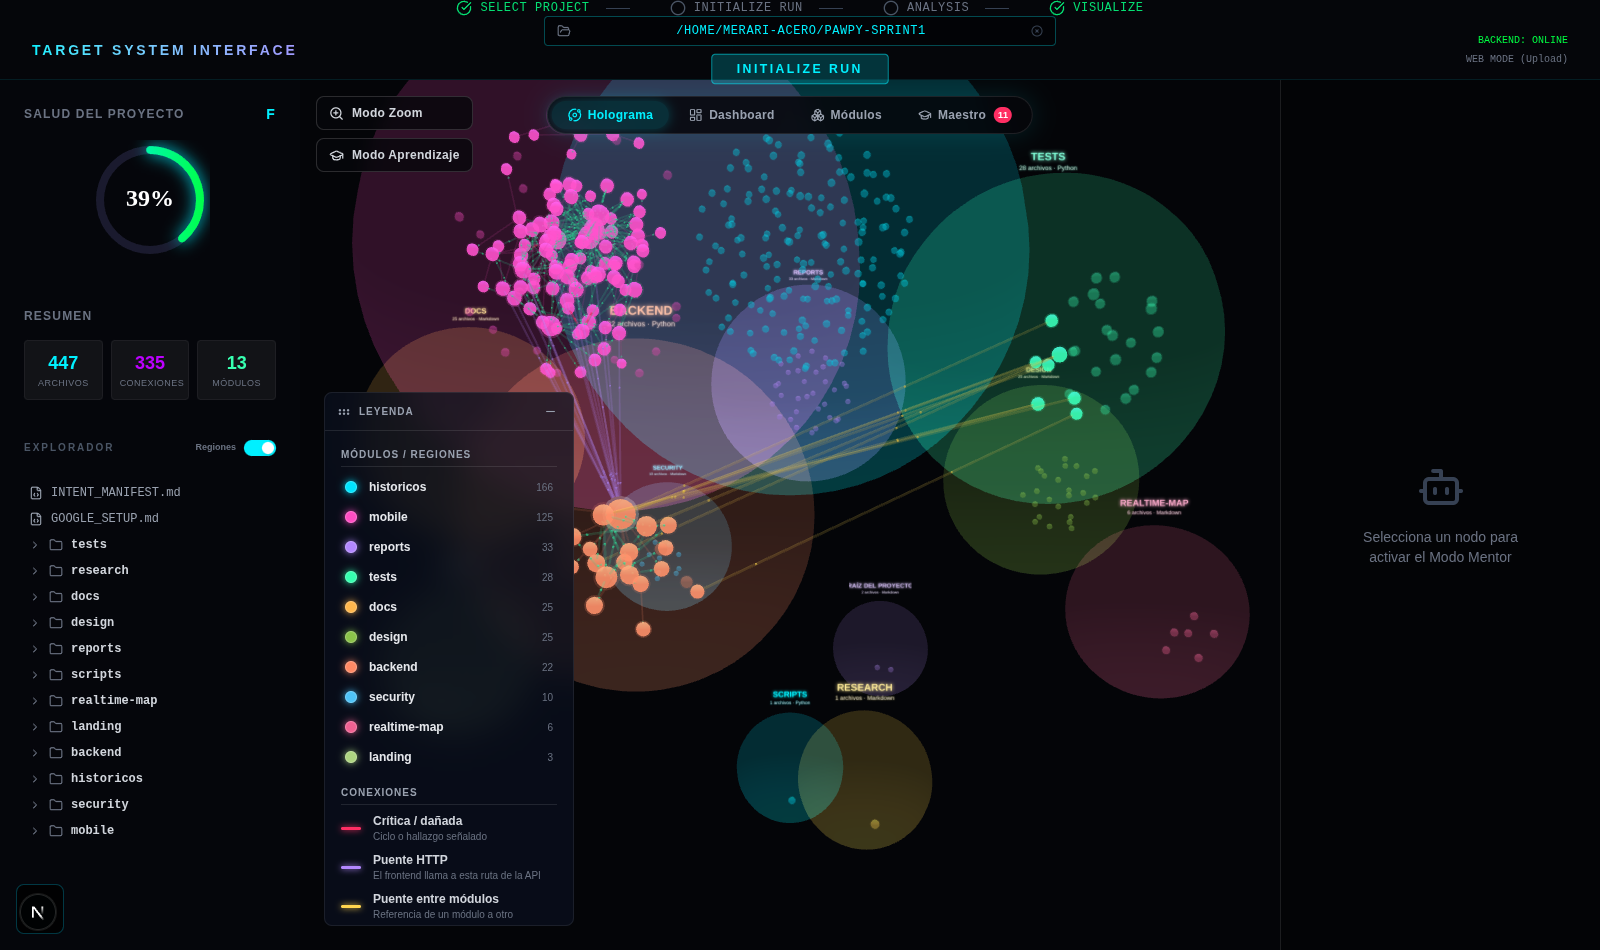
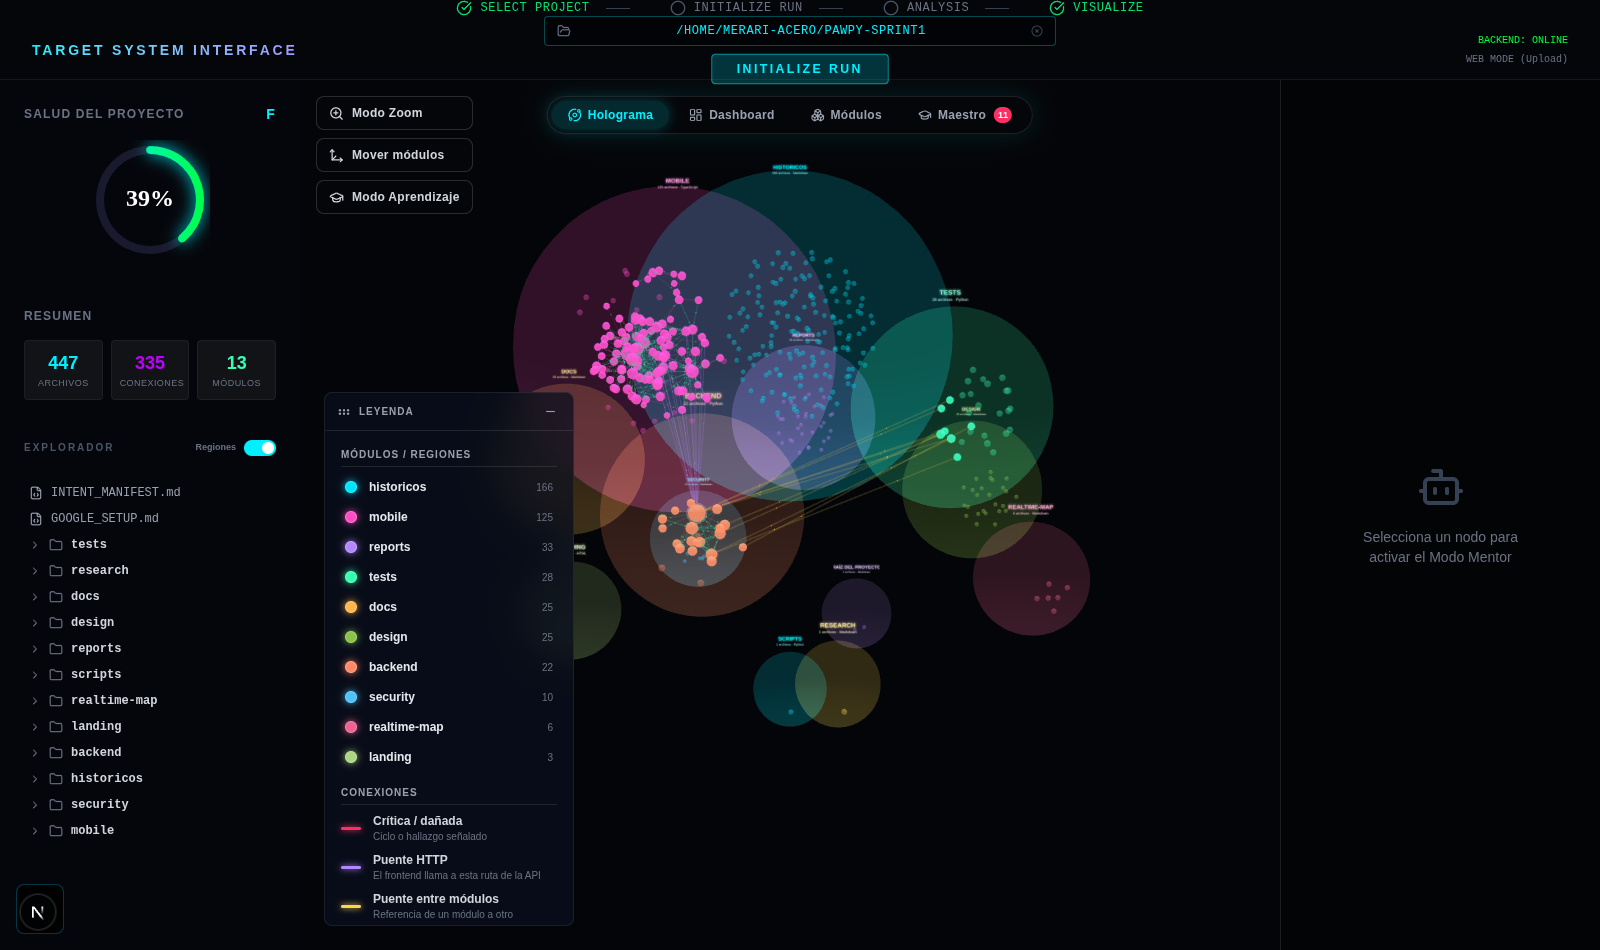
docs: refresh screenshots + modes gallery; fix lingering node tooltip
- All screenshots retaken on current UI: hero with the 3 mode buttons and
  full legend, move mode (nebula dragged, full map), zoom mode (isolated
  48-file chain), learning tour, mentor with AI-prompt button and live
  secret redaction visible
- README EN/ES: new 'Modes in action' gallery, Mentor section, Docker note
  now points to the browser-upload option; AGENTS.md picker description
- fix(ui): node tooltip is hover-only — it used to stay pinned on screen
  over overlay views after selecting a node (selection details already
  live in the right sidebar)

Changed region(s): [[0.2188, 0.0611, 0.7812, 0.9158]]

diff --git a/frontend/src/components/GraphViz.tsx b/frontend/src/components/GraphViz.tsx
@@ -756,9 +756,10 @@ export default function GraphViz({ data, onNodeClick, performanceMode, onStatsUp
 
     if (typeof window === 'undefined') return null;
 
-    const activeNode = selectedNodeId
-        ? data?.nodes.find((n) => n.id === selectedNodeId)
-        : hoveredNode;
+    // Tooltip follows the cursor for HOVERED nodes only; a selected node's
+    // details live in the right sidebar (a pinned tooltip lingered over
+    // overlay views otherwise).
+    const activeNode = hoveredNode;
 
     const moduleStats = modules.map((m) => ({ path: m.name, count: m.file_count, color: m.color, id: m.id }));
 
@@ -830,9 +831,7 @@ export default function GraphViz({ data, onNodeClick, performanceMode, onStatsUp
 
             <div
                 className="absolute inset-0 pointer-events-none"
-                onMouseMove={(e) => {
-                    if (!selectedNodeId) setCursorPos({ x: e.clientX, y: e.clientY });
-                }}
+                onMouseMove={(e) => setCursorPos({ x: e.clientX, y: e.clientY })}
             />
 
             {highlightInsight && (

diff --git a/README.md b/README.md
@@ -75,7 +75,7 @@ npm run dev
 docker-compose up --build
 # frontend: http://localhost:3000 · backend: http://localhost:8001
 ```
-Note: with Docker, the backend can only browse paths mounted into the container (the repo itself is mounted at `/project`). For analyzing arbitrary local folders, prefer the native quick start.
+Note: with Docker, the backend can only browse paths mounted into the container (the repo itself is mounted at `/project`). To analyze any other local folder, use the **«Subir del navegador»** button in the file picker — it reads the folder in your browser (filtered: no `node_modules`, code files only, capped) and sends it as a manifest.
 </details>
 
 ## 🗺 The four views
@@ -104,6 +104,20 @@ Note: with Docker, the backend can only browse paths mounted into the container 
 | 🎨 Module color | **Internal** — a normal import inside its own module |
 
 Hover any line for a tooltip: `source → target · category`. The legend panel is draggable and collapsible.
+
+## 🎮 Modes in action
+
+| ✋ **Move mode** — grab a whole nebula and rearrange the map | 🔍 **Zoom mode** — isolate a file + its 2-level chain |
+|---|---|
+| ![Move mode](docs/screenshots/move_mode.png) | ![Zoom mode](docs/screenshots/zoom_mode.png) |
+
+| 🚶 **Learning tour** — the camera flies module by module | 🧩 **Bridge inspector** — exact file-to-file crossings |
+|---|---|
+| ![Learning tour](docs/screenshots/learning_tour.png) | ![Bridge inspector](docs/screenshots/bridge_inspector.png) |
+
+## 🎓 The Mentor
+
+Findings are not just flags — each one teaches. Note the evidence below: detected **secrets are redacted** (`••••••••`) before they ever leave the analyzer, so they never reach the API, saved graphs, your screen or copied prompts.
 
 ![Mentor mode](docs/screenshots/mentor_mode.png)
 

diff --git a/README.es.md b/README.es.md
@@ -74,7 +74,7 @@ npm run dev
 docker-compose up --build
 # frontend: http://localhost:3000 · backend: http://localhost:8001
 ```
-Nota: con Docker el backend solo puede navegar rutas montadas en el contenedor (el propio repo se monta en `/project`). Para analizar carpetas arbitrarias de tu disco, usa el arranque nativo.
+Nota: con Docker el backend solo puede navegar rutas montadas en el contenedor (el propio repo se monta en `/project`). Para analizar cualquier otra carpeta local, usa el botón **«Subir del navegador»** del explorador — lee la carpeta en tu navegador (filtrada: sin `node_modules`, solo código, con topes) y la envía como manifiesto.
 </details>
 
 ## 🗺 Las cuatro vistas
@@ -103,6 +103,16 @@ Nota: con Docker el backend solo puede navegar rutas montadas en el contenedor (
 | 🎨 Color del módulo | **Interna** — import normal dentro de su módulo |
 
 Pasa el cursor por cualquier línea para el tooltip `origen → destino · categoría`. La leyenda es arrastrable y colapsable.
+
+## 🎮 Los modos en acción
+
+| ✋ **Modo Mover** — agarra una nebulosa y reacomoda el mapa | 🔍 **Modo Zoom** — aísla un archivo + su cadena de 2 niveles |
+|---|---|
+| ![Modo Mover](docs/screenshots/move_mode.png) | ![Modo Zoom](docs/screenshots/zoom_mode.png) |
+
+| 🎓 **Maestro** — enseña y redacta los secretos (`••••••••`) | 🧩 **Inspector de puentes** — cruces archivo-a-archivo exactos |
+|---|---|
+| ![Maestro](docs/screenshots/mentor_mode.png) | ![Inspector de puentes](docs/screenshots/bridge_inspector.png) |
 
 ## 🤖 Para agentes IA
 

diff --git a/AGENTS.md b/AGENTS.md
@@ -56,7 +56,9 @@ frontend/src/
                       # module dragging (nodes + nebula raycast), physics
     DashboardView.tsx / ModulesView.tsx / MentorView.tsx / TourGuide.tsx
     LegendPanel.tsx   # draggable/collapsible legend
-    FileExplorerModal.tsx  # server-side file browser (no upload)
+    FileExplorerModal.tsx  # dual-mode picker: server-side browsing (absolute
+                           # paths, no upload) + optional browser-upload
+                           # manifest (filtered/capped) for Docker/remote
     charts/           # dependency-free SVG BarChart + Donut
   lib/apiClient.ts    # fetch wrapper via Next proxies
   types/index.ts      # Graph/Module/Insight/Summary types + severity color maps
